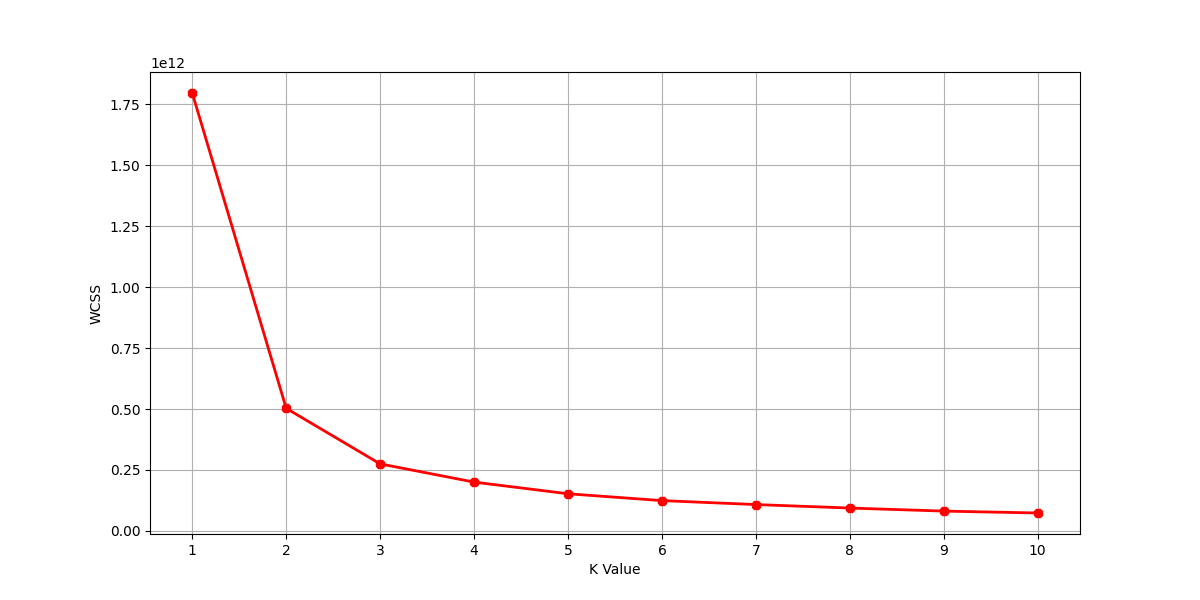
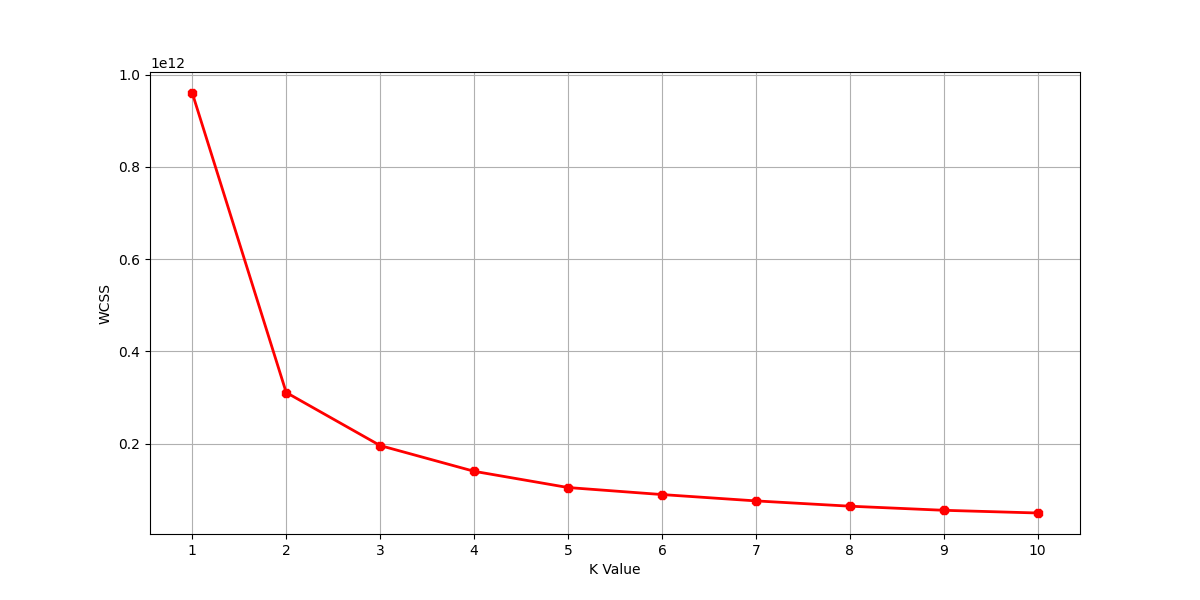
Images

diff --git a/preprocessing/clustering.py b/preprocessing/clustering.py
@@ -1,12 +1,15 @@
 import pandas as pd
 import numpy as np
-from preprocessing.datacleaner import dataCleaner
+from datacleaner import Cleaner
 from sklearn.cluster import KMeans
 import matplotlib.pyplot as plt
 
-churn = pd.read_csv("assets/BankChurners.csv")
-X, y = dataCleaner(churn)
-print(X.columns)
+churn = Cleaner()
+churn = churn.dataCleaner()
+
+# determine target and features
+y = churn["Attrition_Flag"].to_numpy()
+X = churn.drop("Attrition_Flag", axis = 1)
 
 def kmClusterer(X):
     # Check how many clusters are desirable
